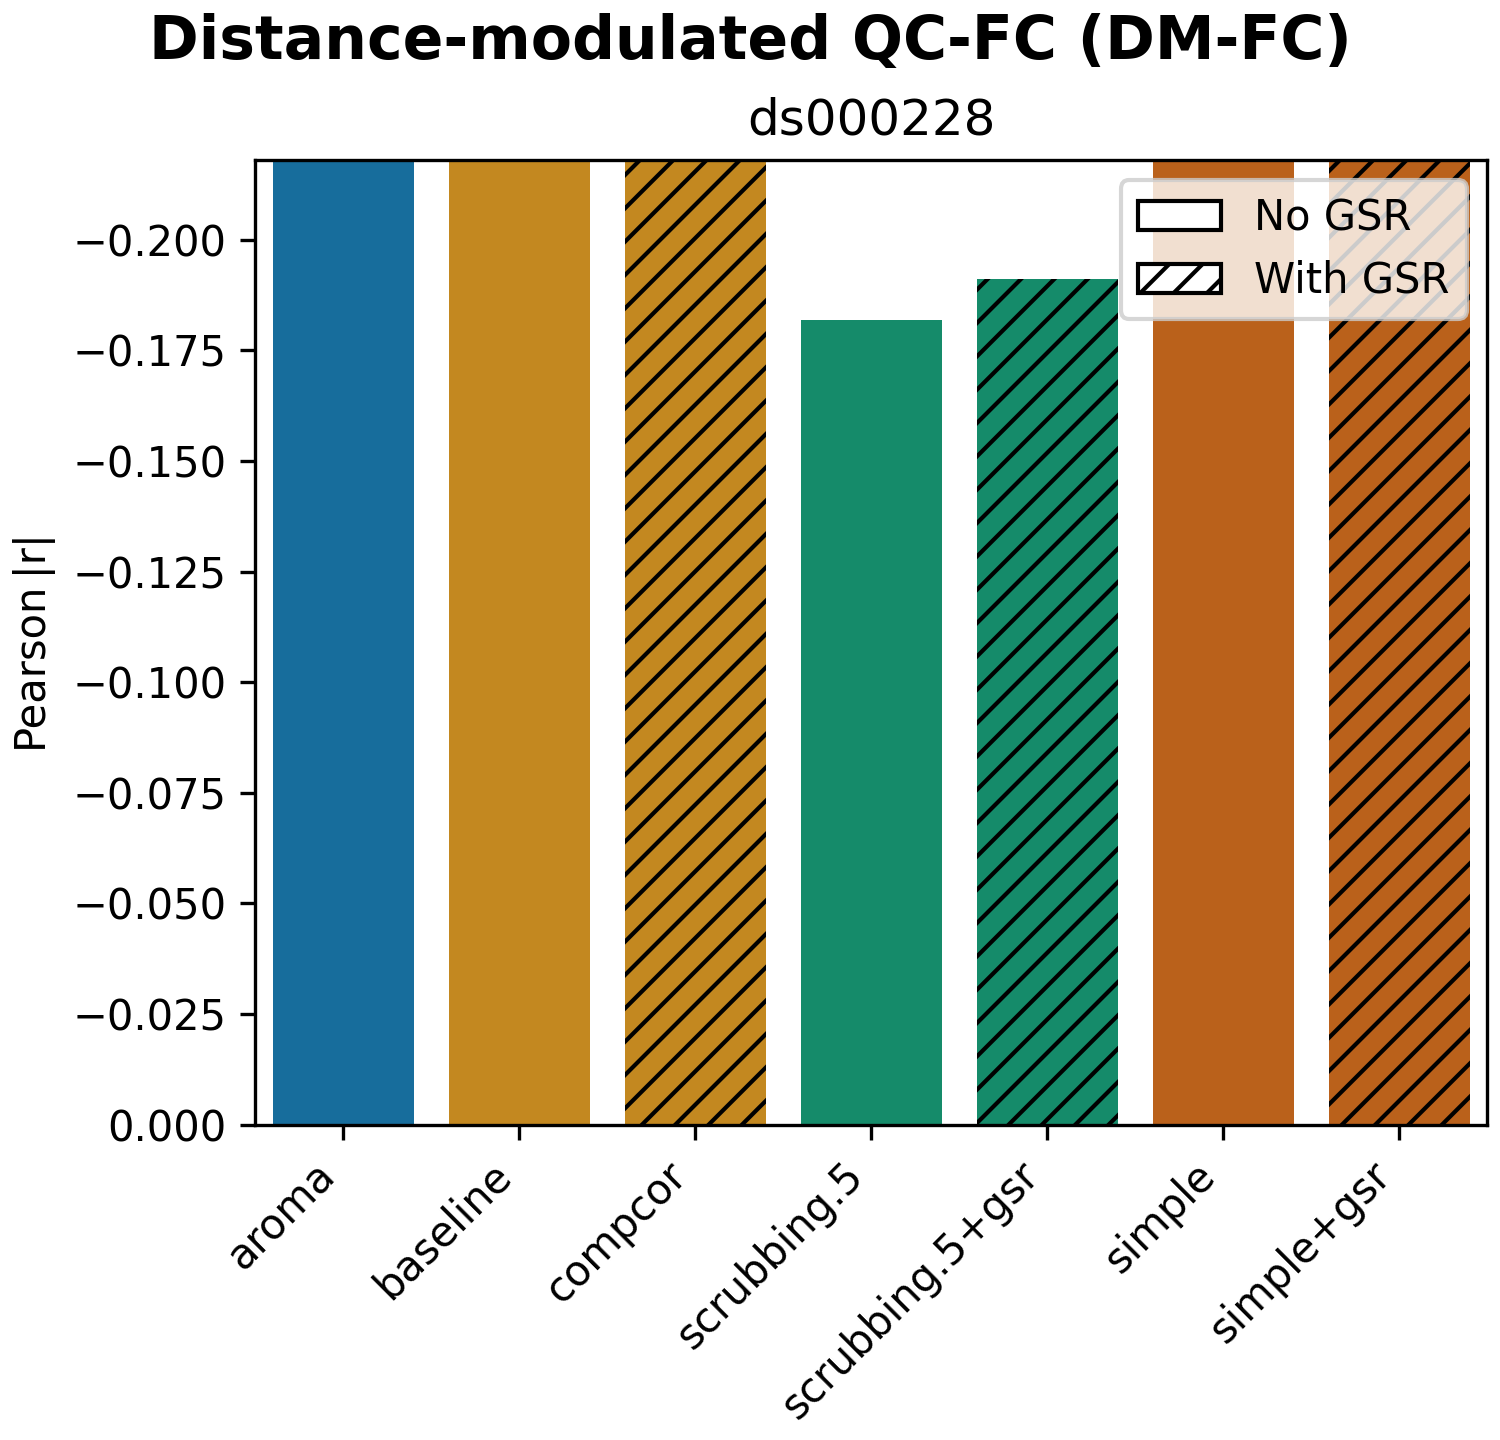
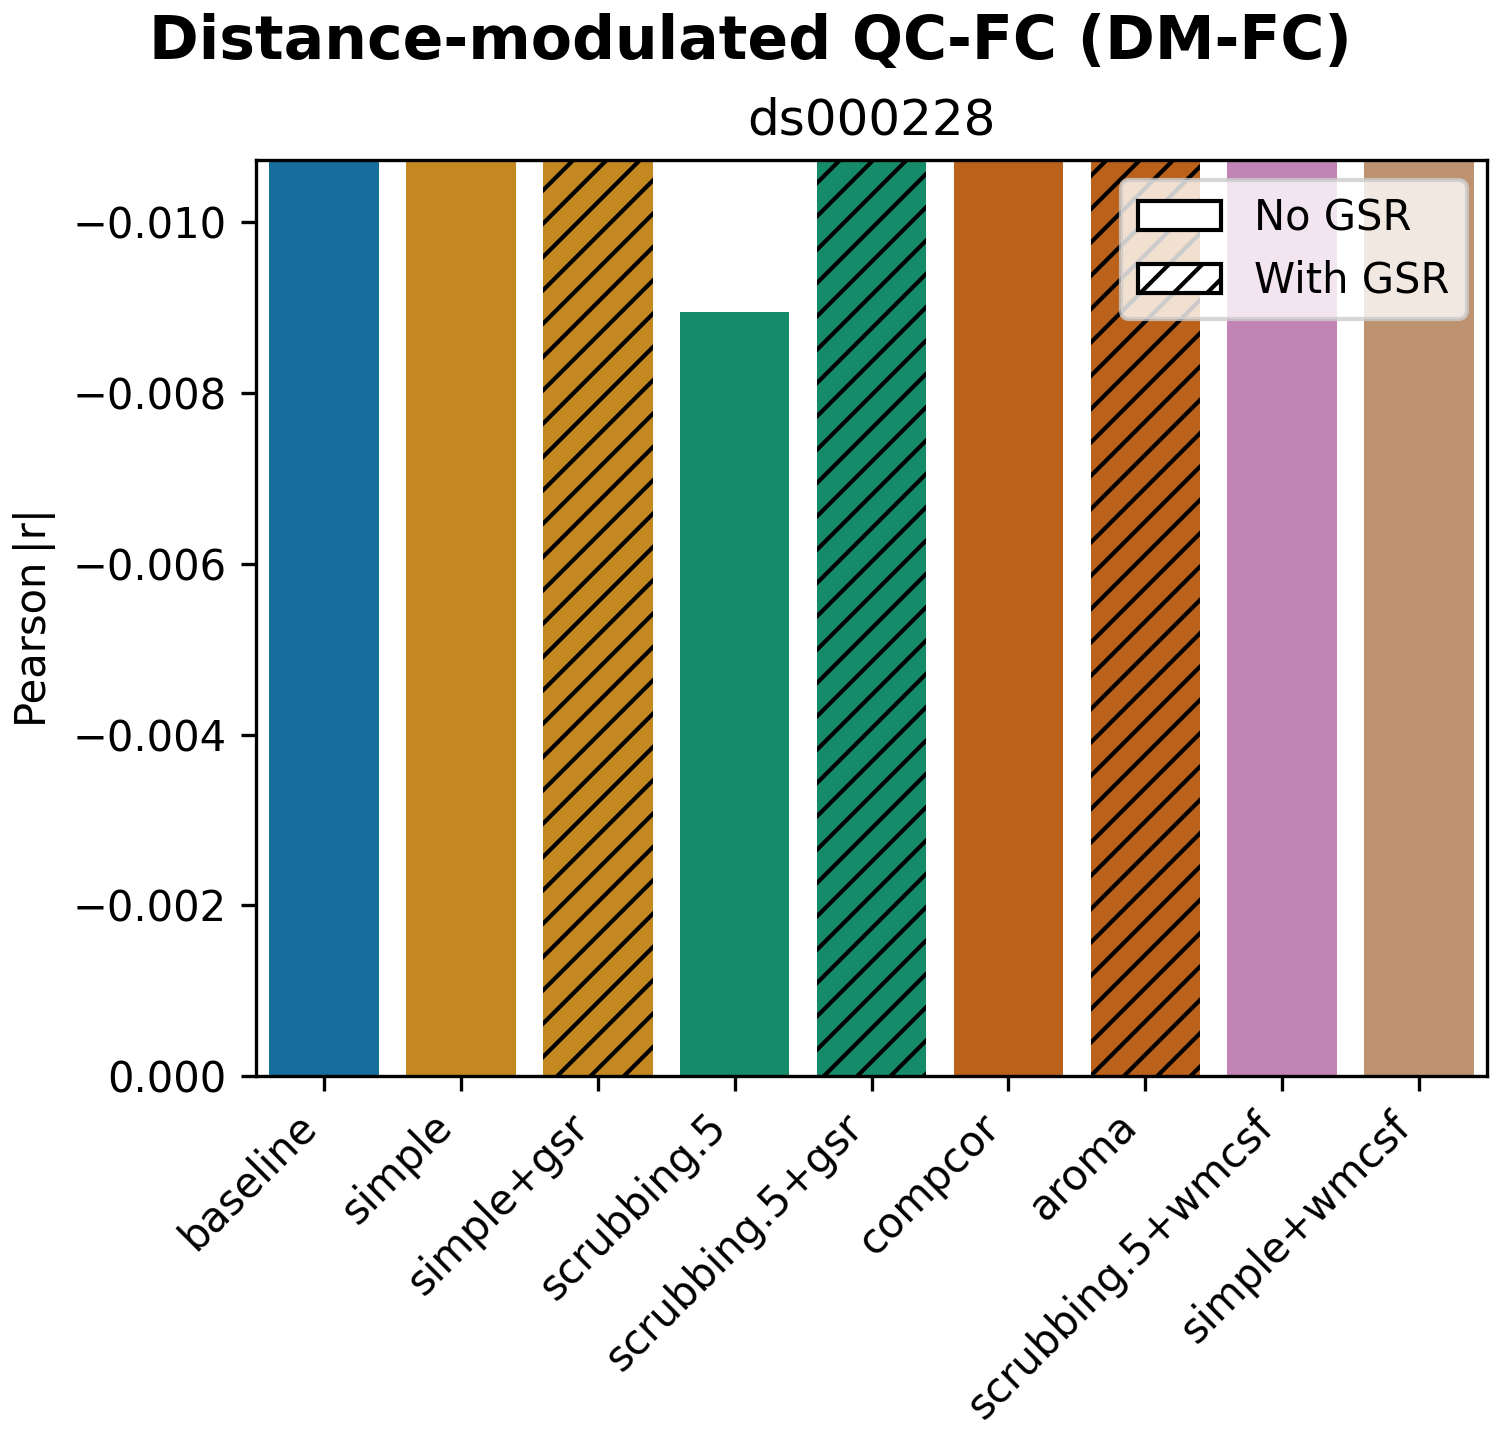
commiting changes before merge to main

diff --git a/fmriprep_denoise/features/calculate_degrees_of_freedom_test_noboldpreproc_aromafix.py b/fmriprep_denoise/features/calculate_degrees_of_freedom_test_noboldpreproc_aromafix.py
@@ -45,11 +45,12 @@ def expand_strategy_columns(strategy_name, df, parameters, subject_id=None, spec
     # Get denoise strategy if defined
     strat = parameters.get("denoise_strategy", None)
     include_gsr = "global_signal" in parameters
+    include_wmcsf = parameters.get("wm_csf") == "basic"
 
     if strat == "simple":
         motion_bases = ["trans_x", "trans_y", "trans_z", "rot_x", "rot_y", "rot_z"]
         motion_cols = [col for col in df.columns if any(col.startswith(base) for base in motion_bases)]
-        wmcsf_cols = []  # Exclude WM/CSF
+        wmcsf_cols = ["white_matter", "csf"] if include_wmcsf else []  # Include WM/CSF if specified
         cosine_cols = []  # Gaussian convolution used
 
         cols = motion_cols + wmcsf_cols + cosine_cols
@@ -59,7 +60,7 @@ def expand_strategy_columns(strategy_name, df, parameters, subject_id=None, spec
     elif strat == "scrubbing":
         motion_bases = ["trans_x", "trans_y", "trans_z", "rot_x", "rot_y", "rot_z"]
         motion_cols = [col for col in df.columns if any(col.startswith(base) for base in motion_bases)]
-        wmcsf_cols = []  
+        wmcsf_cols = ["white_matter", "csf"] if include_wmcsf else []  # Include WM/CSF if specified
         cosine_cols = []  
 
         scrub_cols = []  
@@ -69,7 +70,6 @@ def expand_strategy_columns(strategy_name, df, parameters, subject_id=None, spec
             cols.append("global_signal")
 
     elif strat == "compcor":
-      
         compcor_cols = [col for col in df.columns if col.startswith("c_comp_cor_0")]
         cols = compcor_cols[:5]  # (c_comp_cor_00 to c_comp_cor_04)
 
@@ -401,8 +401,8 @@ def main():
     output_root.mkdir(exist_ok=True, parents=True)
     logging.debug("Output directory exists: %s", output_root)
 
-    path_movement = output_root / f"dataset-{dataset_name}_desc-movement_phenotype_HALFpipe.tsv"
-    path_dof = output_root / f"dataset-{dataset_name}_desc-confounds_phenotype.HALFpipe.tsv"
+    path_movement = output_root / f"dataset-{dataset_name}_desc-movement_phenotype.tsv"
+    path_dof = output_root / f"dataset-{dataset_name}_desc-confounds_phenotype.tsv"
 
     logging.info("Fetching confounds derivative data.")
     data = fetch_fmriprep_derivative(dataset_name, participant_tsv, fmriprep_path, specifier)

diff --git a/fmriprep_denoise/visualization/utils.py b/fmriprep_denoise/visualization/utils.py
@@ -36,14 +36,26 @@ logging.basicConfig(level=logging.DEBUG, format='%(levelname)s: %(message)s')
 #     (2, 3): "aroma+gsr",
 # }
 
+# GRID_LOCATION = {
+#     (0, 0): "baseline",
+#     (0, 2): "simple",
+#     (0, 3): "simple+gsr",
+#     (1, 0): "scrubbing.5",
+#     (1, 1): "scrubbing.5+gsr",
+#     (2, 0): "compcor",
+#     (2, 2): "aroma",
+# }
+
 GRID_LOCATION = {
     (0, 0): "baseline",
     (0, 2): "simple",
     (0, 3): "simple+gsr",
-    (1, 0): "scrubbing.5",
-    (1, 1): "scrubbing.5+gsr",
+    (1, 0): "simple+wmcsf",
+    (1, 1): "scrubbing.5",
+    (1, 2): "scrubbing.5+gsr",
+    (1, 3): "scrubbing.5+wmcsf",
     (2, 0): "compcor",
-    (2, 2): "aroma",
+    (2, 1): "aroma",
 }
 
 # GRID_LOCATION = {
@@ -174,8 +186,8 @@ def prepare_qcfc_plotting(dataset, fmriprep_version, atlas_name, dimension, path
     # "fmriprep-20.2.7": "/home/seann/scratch/halfpipe_test/test15/derivatives_3.24.2025/denoise_0.8subjectthreshold/rois_dropped.csv",
     # }
     excluded_rois_paths = {
-    "fmriprep-25.0.0": "/home/seann/scratch/halfpipe_test/test14/derivatives/denoise_0.8subjectthreshold/rois_dropped.csv",
-    "fmriprep-20.2.7": "/home/seann/scratch/halfpipe_test/test15/derivatives/denoise_0.8subjectthreshold/rois_dropped.csv",
+    "fmriprep-25.0.0": "/home/seann/scratch/halfpipe_test/25-04-25_ds228_halfpipe-1.2.3_fmriprep-25.0.0_dvars-corrected/derivatives/denoise/rois_dropped.csv",
+    "fmriprep-20.2.7": "/home/seann/scratch/halfpipe_test/25-04-17_ds228_halfpipe-1.2.3_fmriprep-20.2.7/derivatives/denoise/rois_dropped.csv",
     }
     excluded_rois_path = excluded_rois_paths.get(fmriprep_version, None)
 

diff --git a/fmriprep_denoise/features/distance_dependency.py b/fmriprep_denoise/features/distance_dependency.py
@@ -81,9 +81,9 @@ def get_centroid(atlas_name, dimension, excluded_rois_path=None):
     if atlas_name not in ATLAS_METADATA:
         raise NotImplementedError(f"Atlas '{atlas_name}' is not supported.")
 
-    atlas_tsv_path = f"/home/seann/projects/def-cmoreau/All_user_common_folder/atlas/atlas_enigma/atlas-{atlas_name}Combined_dseg.tsv"
-    atlas_img_path = f"/home/seann/projects/def-cmoreau/All_user_common_folder/atlas/atlas_enigma/atlas-{atlas_name}Combined_dseg.nii.gz"
-    centroid_tsv_path = f"/home/seann/scratch/denoise/fmriprep-denoise-benchmark/outputs/denoise-metrics-atlas.5-4.17.25/ds000228/fmriprep-25.0.0/atlas-{atlas_name}Combined_centroids.tsv"
+    atlas_tsv_path = f"/home/seann/projects/def-cmoreau/All_user_common_folder/atlas/atlas_enigma/atlas-Schaefer2018Combined_dseg.tsv"
+    atlas_img_path = f"/home/seann/projects/def-cmoreau/All_user_common_folder/atlas/atlas_enigma/atlas-Schaefer2018Combined_dseg.nii.gz"
+    centroid_tsv_path = f"/home/seann/scratch/denoise/fmriprep-denoise-benchmark/outputs/denoise-metrics-atlas.5-4.17.25/ds000228/fmriprep-25.0.0/atlas-Schaefer2018Combined_centroids.tsv"
 
     if not Path(centroid_tsv_path).is_file():
         print(f"Loading ROI labels from TSV: {atlas_tsv_path}")

diff --git a/scripts/make_manuscript_figures_multifmriprep.py b/scripts/make_manuscript_figures_multifmriprep.py
@@ -23,18 +23,18 @@ logger = logging.getLogger(__name__)
 fixed_dataset = "ds000228"
 datasets = [fixed_dataset]  # Keep as list for function calls
 fmriprep_versions = ["fmriprep-20.2.7", "fmriprep-25.0.0"]
-criteria_name = "minimal"
+criteria_name = "stringent"
 excluded_strategies = []
 
 # Paths
-path_root = Path("/home/seann/scratch/denoise/fmriprep-denoise-benchmark/outputs/denoise-metrics-atlas.5-4.24.25")
+path_root = Path("/home/seann/scratch/denoise/fmriprep-denoise-benchmark/outputs/denoise-metrics-atlas.5-5.08.25")
 output_dir = Path(__file__).parents[1] / "outputs1"
 output_dir.mkdir(parents=True, exist_ok=True)
 
 # Utility
 strategy_order = list(utils.GRID_LOCATION.values())
 # strategy_order = [s for s in strategy_order if s not in excluded_strategies]
-strategy_order = ["scrubbing.5+gsr","simple+gsr","compcor","scrubbing.5","simple","aroma","baseline"]
+strategy_order = ["scrubbing.5+gsr","simple+gsr","compcor","scrubbing.5","simple","aroma","baseline", "scrubbing.5+wmcsf","simple+wmcsf"]
 
 # Plotting function for Loss vs Quality
 def plot_loss_vs_quality(data, output_dir, version_filter):

diff --git a/fmriprep_denoise/features/build_features_test_parallelized.py b/fmriprep_denoise/features/build_features_test_parallelized.py
@@ -225,10 +225,10 @@ def main():
                 logging.warning("Connectome is empty for strategy %s. Skipping modularity computation.", strategy_name)
                 continue
 
-            # Limit to the first 10 subjects for testing purposes
-            connectome = connectome.iloc[:2]
-            logging.info("Limiting modularity computation to the first 10 subjects for testing.")
-            logging.debug("Connectome shape after slicing: %s", connectome.shape)
+            # # Limit to the first 10 subjects for testing purposes
+            # connectome = connectome.iloc[:2]
+            # logging.info("Limiting modularity computation to the first 10 subjects for testing.")
+            # logging.debug("Connectome shape after slicing: %s", connectome.shape)
 
             # Fixed number of jobs for parallelization (same as original implementation)
             n_jobs = 4

diff --git a/scripts/make_manuscript_figures.py b/scripts/make_manuscript_figures.py
@@ -40,7 +40,7 @@ group_order = {
 }
 datasets = ["ds000228"]
 datasets_baseline = {"ds000228": "adult"}
-criteria_name = "minimal"
+criteria_name = "stringent"
 fmriprep_version = "fmriprep-25.0.0"
 excluded_strategies = []#["compcor", "aroma"]
 
@@ -106,7 +106,7 @@ if __name__ == "__main__":
     # path_root = Path(__file__).parents[1] / "data" / \
     #     "fmriprep-denoise-benchmark" / "denoise-metrics"
 
-    path_root = Path("/home/seann/scratch/denoise/fmriprep-denoise-benchmark/outputs/denoise-metrics-atlas.5-4.27.25")
+    path_root = Path("/home/seann/scratch/denoise/fmriprep-denoise-benchmark/outputs/denoise-metrics-atlas.5-5.08.25")
     strategy_order = list(utils.GRID_LOCATION.values())
     strategy_order = [s for s in strategy_order if s not in excluded_strategies]
 

diff --git a/fmriprep_denoise/features/evaluate_NaN.py b/fmriprep_denoise/features/evaluate_NaN.py
@@ -255,7 +255,7 @@ def main():
     logging.info("Version A output path: %s", output_path_A)
 
     # Load full ROI list and atlas coordinates.
-    atlas_tsv = f"/home/seann/projects/def-cmoreau/All_user_common_folder/atlas/atlas_enigma/atlas-{args.atlas}Combined_dseg.tsv"
+    atlas_tsv = f"/home/seann/projects/def-cmoreau/All_user_common_folder/atlas/atlas_enigma/atlas-Schaefer2018Combined_dseg.tsv"
     full_roi_list = load_full_roi_list(atlas_tsv)
     logging.info("Loaded full ROI list with %d ROIs.", len(full_roi_list))
     print("Number of ROIs:", len(full_roi_list))

diff --git a/scripts/imputation_testing/plot_roi_missing_rate.py b/scripts/imputation_testing/plot_roi_missing_rate.py
@@ -45,5 +45,5 @@ def main():
 if __name__ == "__main__":
     main()
 
-    #python plot_roi_missing_rate.py /home/seann/scratch/denoise/fmriprep-denoise-benchmark/outputs/denoise-metrics/ds000228_04.03.25/brain_visualization/ds000228/fmriprep-20.2.7/version_B_all_subjects_avg_missing_per_roi.tsv
+    #python plot_roi_missing_rate.py /home/seann/scratch/denoise/fmriprep-denoise-benchmark/outputs/denoise-metrics-atlas.5-5.08.25/NaN_figures_1.2.3dev_noDVARs/ds000228/fmriprep-25.0.0/version_A_all_subjects_avg_missing_per_roi.tsv
 

diff --git a/fmriprep_denoise/visualization/summarise_metadata.py b/fmriprep_denoise/visualization/summarise_metadata.py
@@ -15,9 +15,10 @@ import itertools
 # fmriprep_versions = ["fmriprep-20.2.1lts", "fmriprep-20.2.5lts"]
 
 
-qc_names = ["minimal"]
+qc_names = ["stringent"]
 datasets = ["ds000228"]
-fmriprep_versions = ["fmriprep-25.0.0", "fmriprep-20.2.7"]
+fmriprep_versions = ["fmriprep-20.2.7"]
+# fmriprep_versions = ["fmriprep-25.0.0", "fmriprep-20.2.7"]
 
 
 def parse_args():

diff --git a/fmriprep_denoise/visualization/tables.py b/fmriprep_denoise/visualization/tables.py
@@ -1,7 +1,7 @@
 import pandas as pd
 
 # changed to match json 
-fd2label = {0.5: "scrubbing.5", 0.2: "scrubbing.2"}
+fd2label = {0.5: "scrubbing.5", 0.2: "scrubbing.5"}
 
 # fd2label = {0.1: "corrMatrixScrub", 0.2: "corrMatrixScrubGSR", 0.3: "corrMatrixMotion", 0.4: "corrMatrixMotionGSR", 0.5: "corrMatrixCompCor", 0.6: "corrMatrixICA"}
 

diff --git a/fmriprep_denoise/dataset/atlas.py b/fmriprep_denoise/dataset/atlas.py
@@ -39,6 +39,12 @@ ATLAS_METADATA = {
         "template": "MNI152NLin6Asym",
         "resolution": 2,
         "dimensions": [434],
+    },
+    "schaefer400": {
+        "atlas": "Schaefer2018Combined",
+        "template": "MNI152NLin6Asym",
+        "resolution": 2,
+        "dimensions": [434],
     }
 }
 

diff --git a/scripts/halfpipe_to_denoise/transition_timeseries_imputation.py b/scripts/halfpipe_to_denoise/transition_timeseries_imputation.py
@@ -43,6 +43,8 @@ FEATURE_RENAME_MAP = {
     "corrMatrix4": "simple+gsr",
     "corrMatrix2": "scrubbing.5+gsr",
     "corrMatrix1": "scrubbing.5",
+    "corrMatrix7": "simple+wmcsf",
+    "corrMatrix8": "scrubbing.5+wmcsf",
 }
 
 
